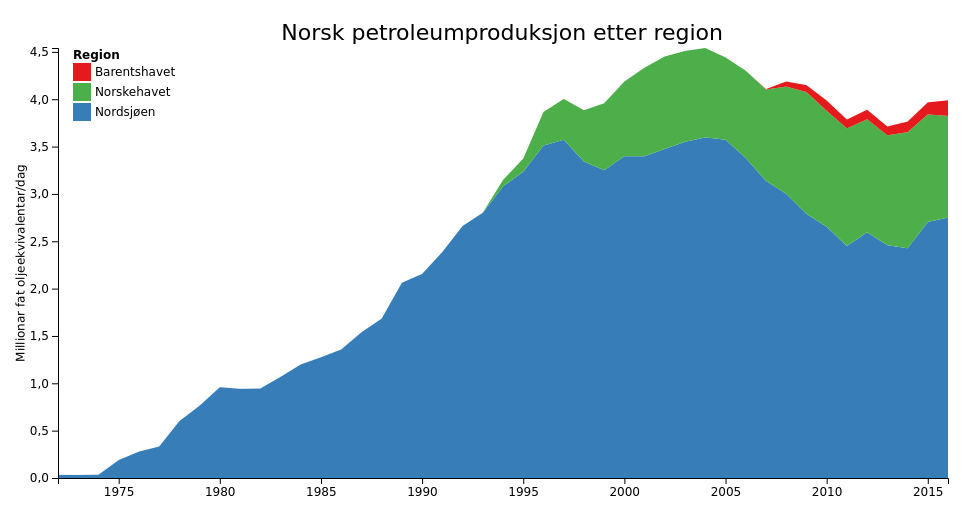
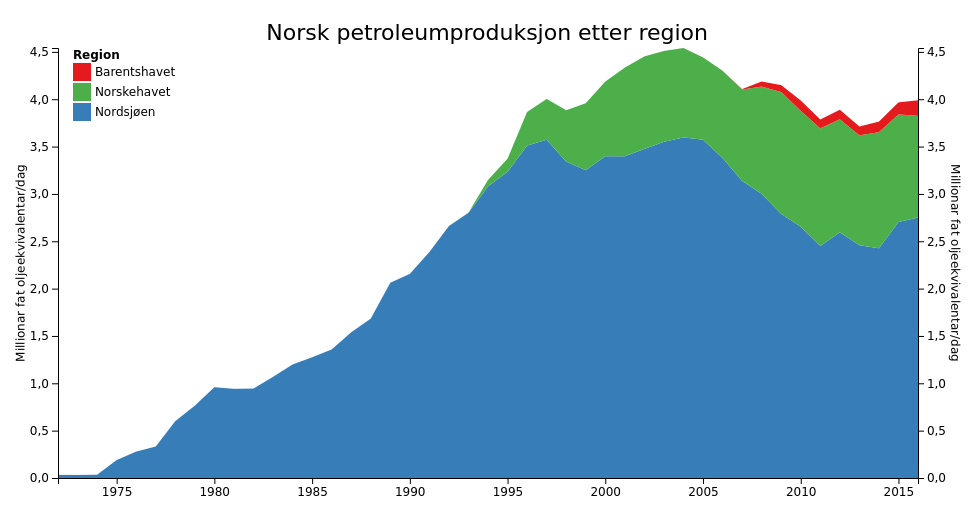
Add right y-axis for production

diff --git a/vis/production.js b/vis/production.js
@@ -3,7 +3,7 @@ var findGetParameter = require('./findgetparameter.js');
 require('./style.css');
 
 function isGroup(v) {
-    return v!=='Date' && v!=='date' && v!=='Sum';
+    return v !== 'Date' && v !== 'date' && v !== 'Sum';
 }
 
 
@@ -19,7 +19,7 @@ function show_resource(resource, group, unit, file) {
         .attr('width', 960)
         .attr('height', 500);
 
-    var margin = { top: 40, right: 20, bottom: 30, left: 50 },
+    var margin = { top: 40, right: 50, bottom: 30, left: 50 },
         width = +svg.attr("width") - margin.left - margin.right,
         height = +svg.attr("height") - margin.top - margin.bottom,
         g = svg.append("g").attr("transform", "translate(" + margin.left + "," + margin.top + ")");
@@ -85,6 +85,20 @@ function show_resource(resource, group, unit, file) {
                 .text(unit);
 
             g.append("g")
+                .attr("transform", "translate(" + width + ",0)")
+                .call(d3.axisRight(y))
+                .append("g")
+                .attr("transform", "translate(0," + (height/2) + ")")
+                .append("text")
+                .attr("fill", "#000")
+                .attr("transform", "rotate(90)")
+                .attr("y", -margin.right + 8)
+                .attr("dy", "0.71em")
+                .style("text-anchor", "middle")
+                .text(unit);
+
+
+            g.append("g")
                 .append("text")
                 .attr('dy', '-.35em')
                 .attr('x', width / 2)
@@ -115,9 +129,9 @@ function show_resource(resource, group, unit, file) {
             var translate = {
                 'Norwegian sea': 'Norskehavet',
                 'North sea': 'Nordsjøen',
-                'Barents sea': 'Barentshavet' 
+                'Barents sea': 'Barentshavet'
             };
-            
+
             legend.append('text')
                 .attr("x", 18 + 4)
                 .attr('y', 9)
